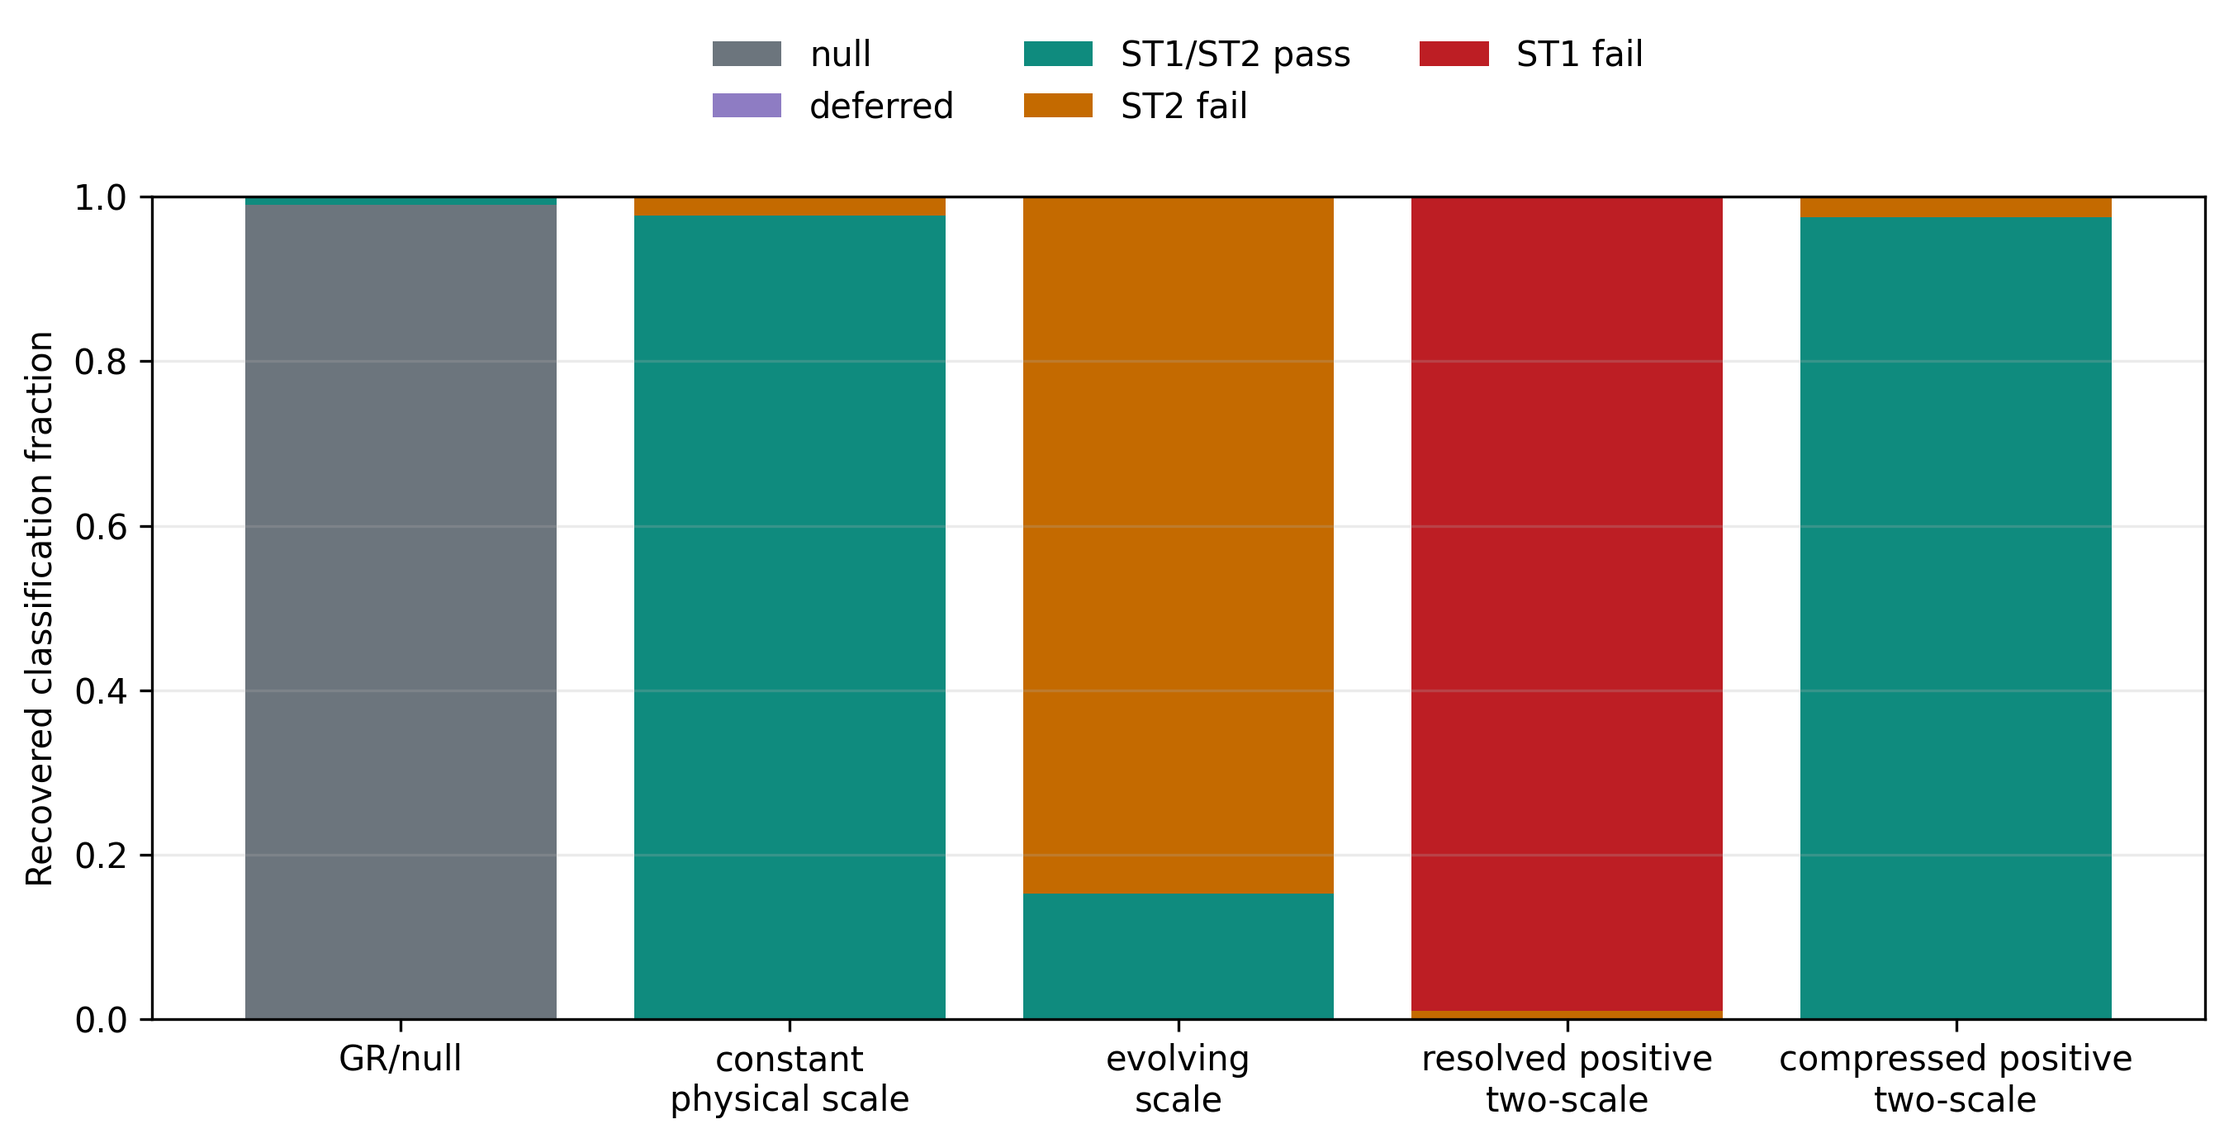
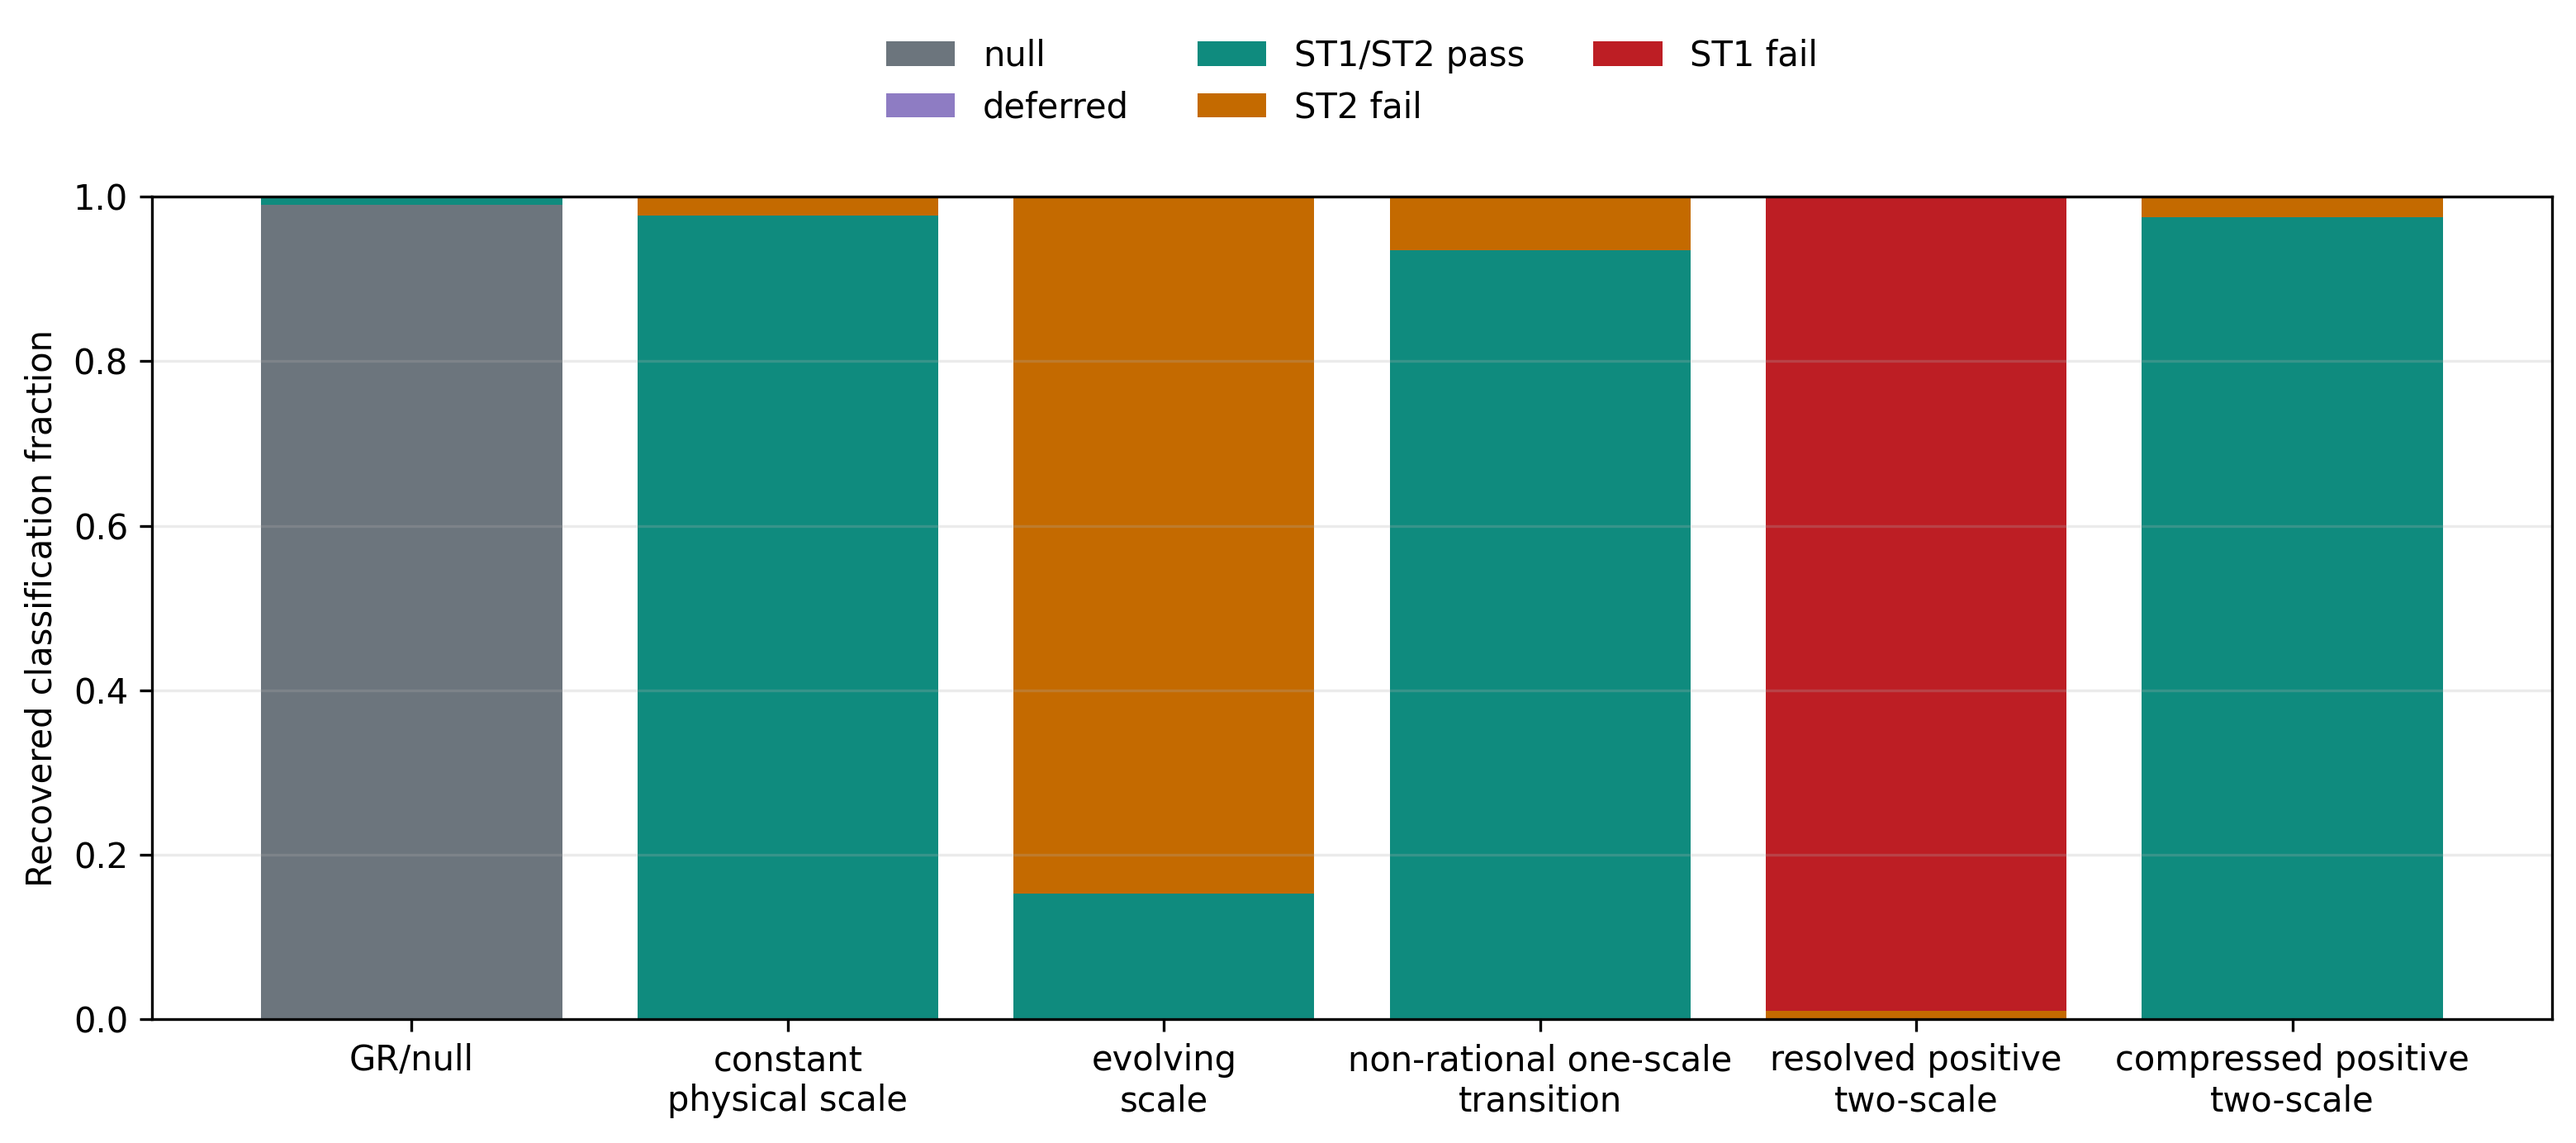
Update reproducibility artifacts for v1.0.3

diff --git a/benchmark_st1_st2.py b/benchmark_st1_st2.py
@@ -43,7 +43,7 @@ CAUSAL_CALIBRATION_SEED = 70233
 CAUSAL_VALIDATION_SEED = 70234
 N_CAUSAL_COVERAGE_CELLS = 16
 POWER_TARGET = 0.80
-SCRIPT_VERSION = "1.0.2"
+SCRIPT_VERSION = "1.0.3"
 
 
 @dataclass(frozen=True)

diff --git a/README.md b/README.md
@@ -80,15 +80,15 @@ convergence check for representative constant-scale, evolving-scale,
 non-rational, and discontinuous causal histories.
 
 The frozen reproducibility target is
-[GitHub release v1.0.2](https://github.com/castronuovo/scale-dependent-growth-tests/releases/tag/v1.0.2),
-rather than the moving `main` branch. This backward-compatible release adds
-validation and verification features while reproducing the v1.0.1 JSON byte
-for byte and leaving all four figure hashes unchanged.
+[GitHub release v1.0.3](https://github.com/castronuovo/scale-dependent-growth-tests/releases/tag/v1.0.3),
+rather than the moving `main` branch. This release synchronizes the stored
+machine-readable results and benchmark figures with the held-out non-rational
+one-scale validation and the published SHA-256 manifest.
 
 ## Expected SHA-256 hashes
 
 ```text
-ada0e00afc467975e3e2f8eb1aa8cb13d1b103d5676443269346d723f8ff92a1  benchmark_st1_st2.py
+8dd1363cc468d6198208c58e4bbf0d6f7c19d976087b708e7cf5c8459da7d9e9  benchmark_st1_st2.py
 0e0569687e1c91ffbc838abba2ff968e03ab4bebb2f7860500be024e3b4483b7  benchmark_st1_st2_results.json
 3fec6b9992caa9cec43f881c54e0b20d31031c06bd07c9a5d56a6c71a6568fbf  figs/st1_st2_end_to_end_benchmark.png
 a716ca7c8be47fff7444af229c3e55f2aa2d74ac37b1a0e3ccbb54d27cc5e7ae  figs/st1_st2_operating_diagnostics.png
